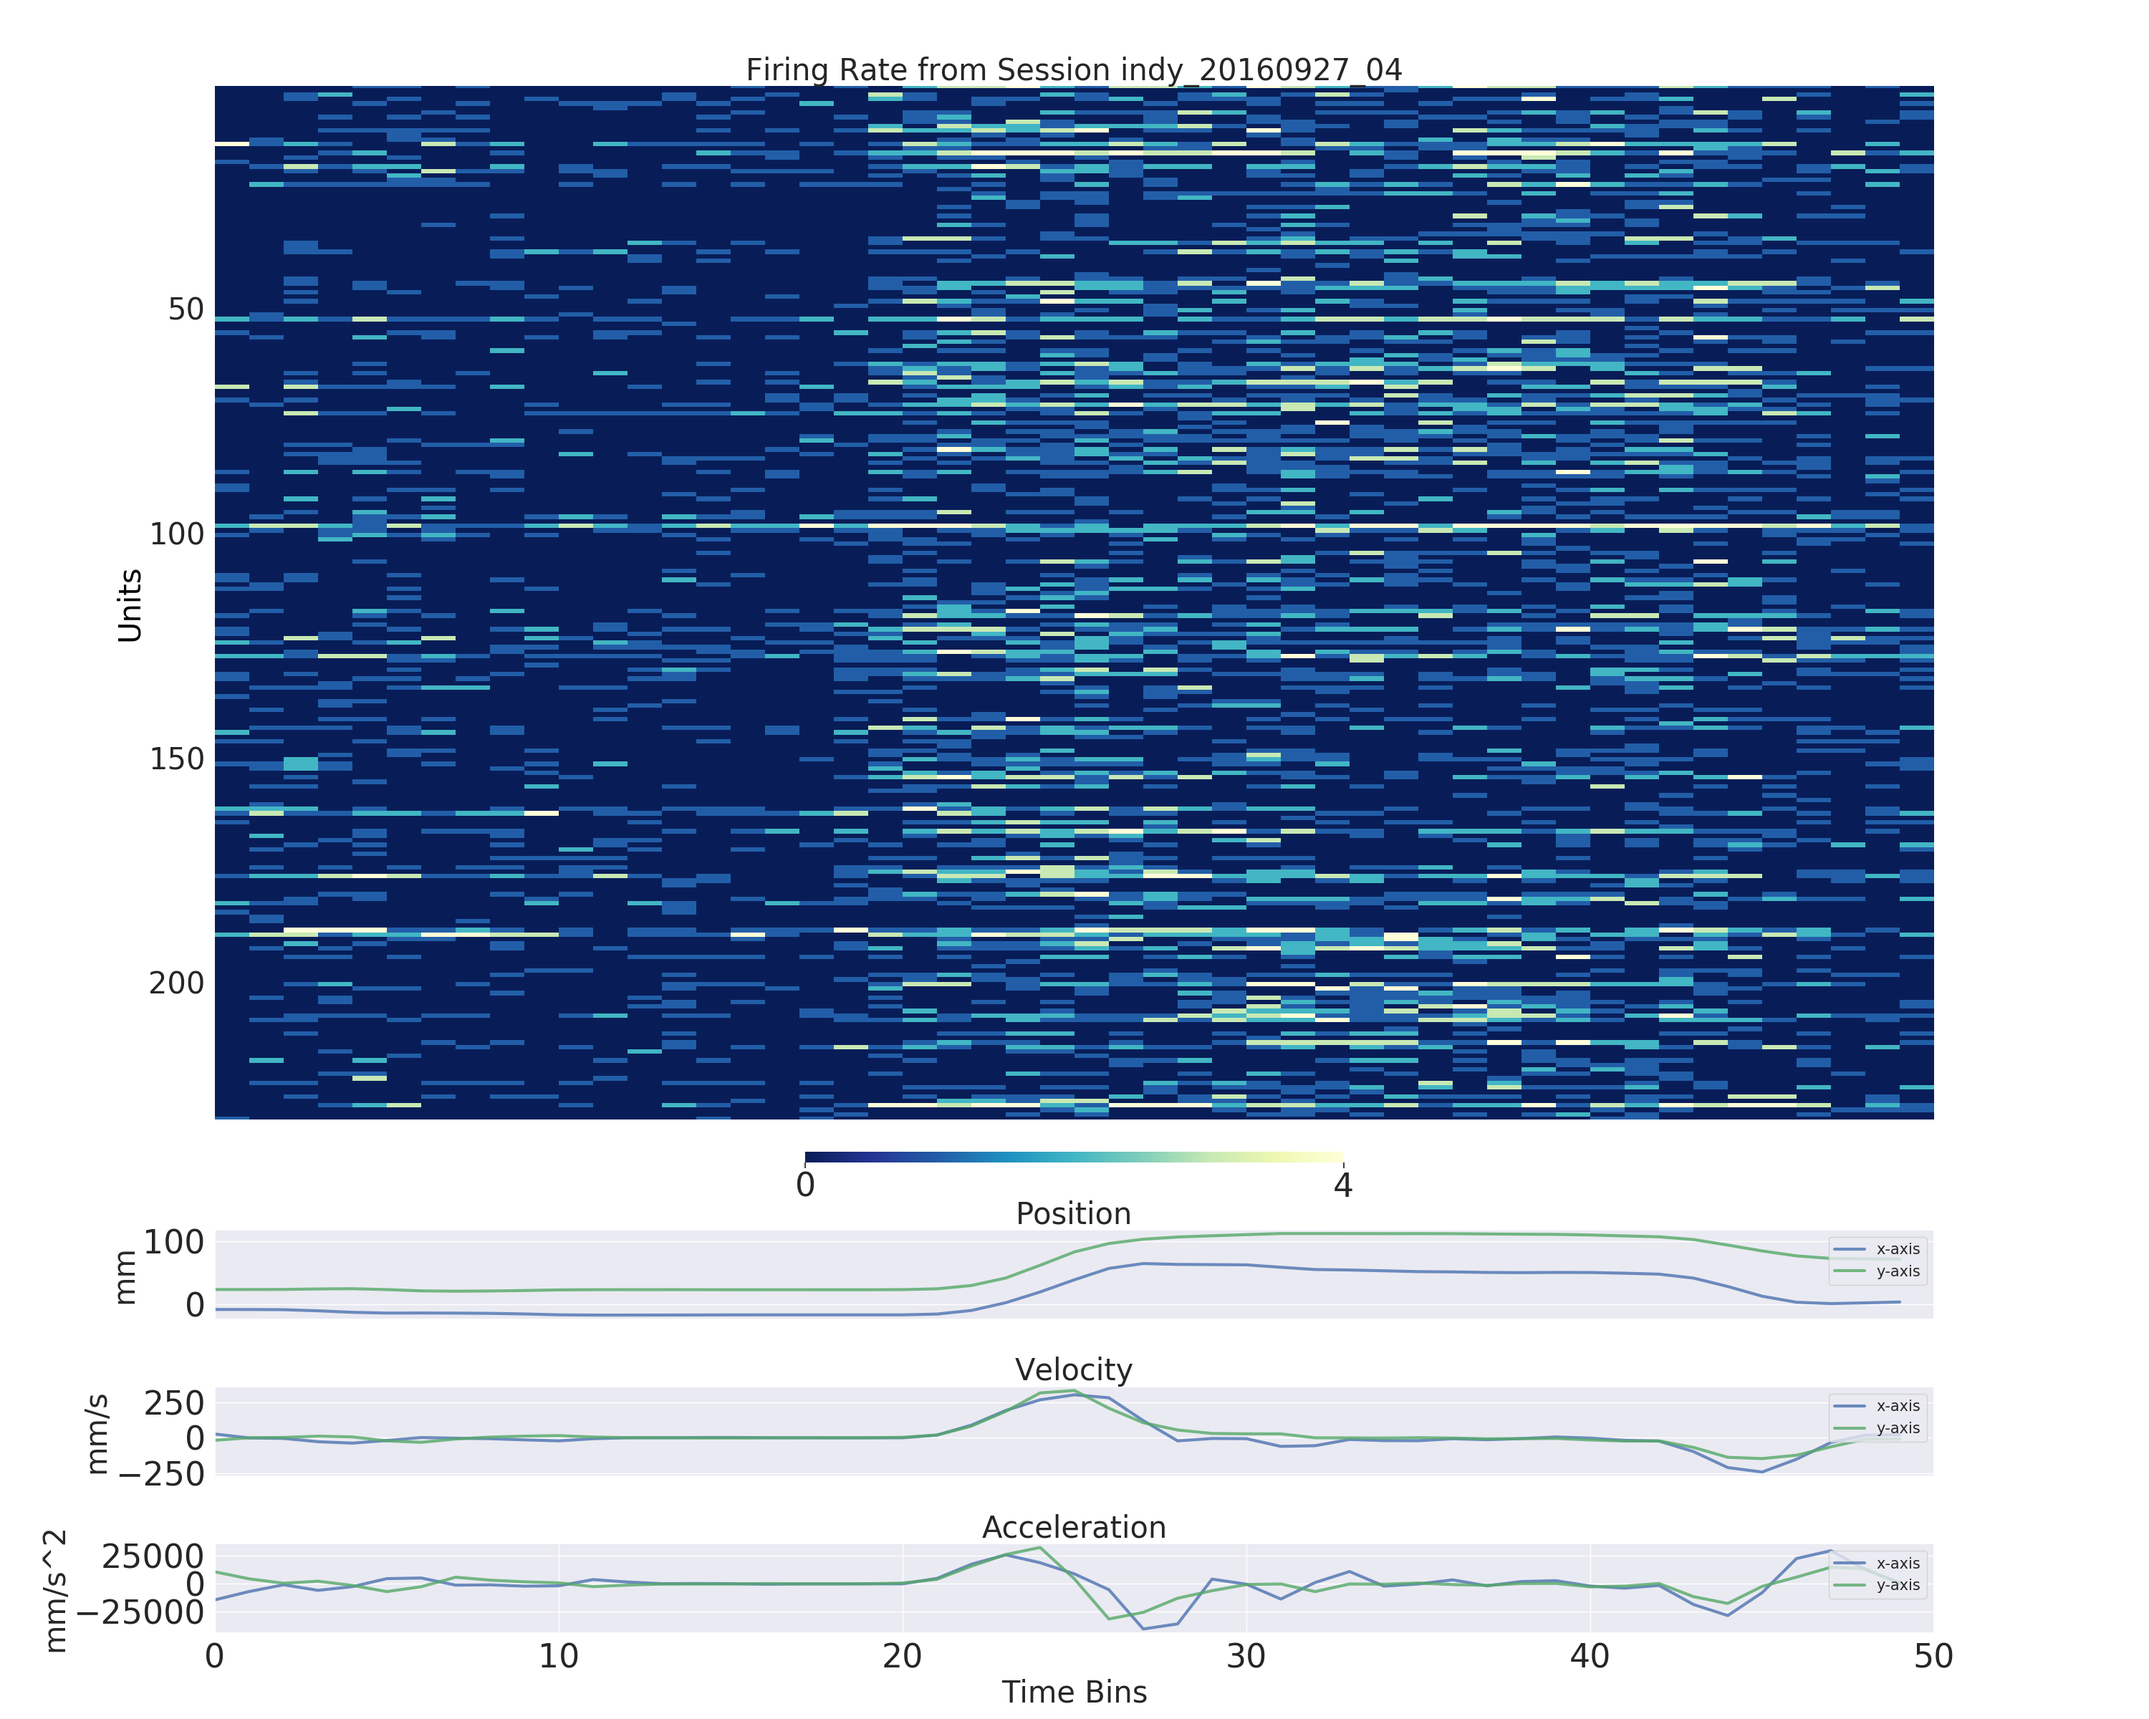
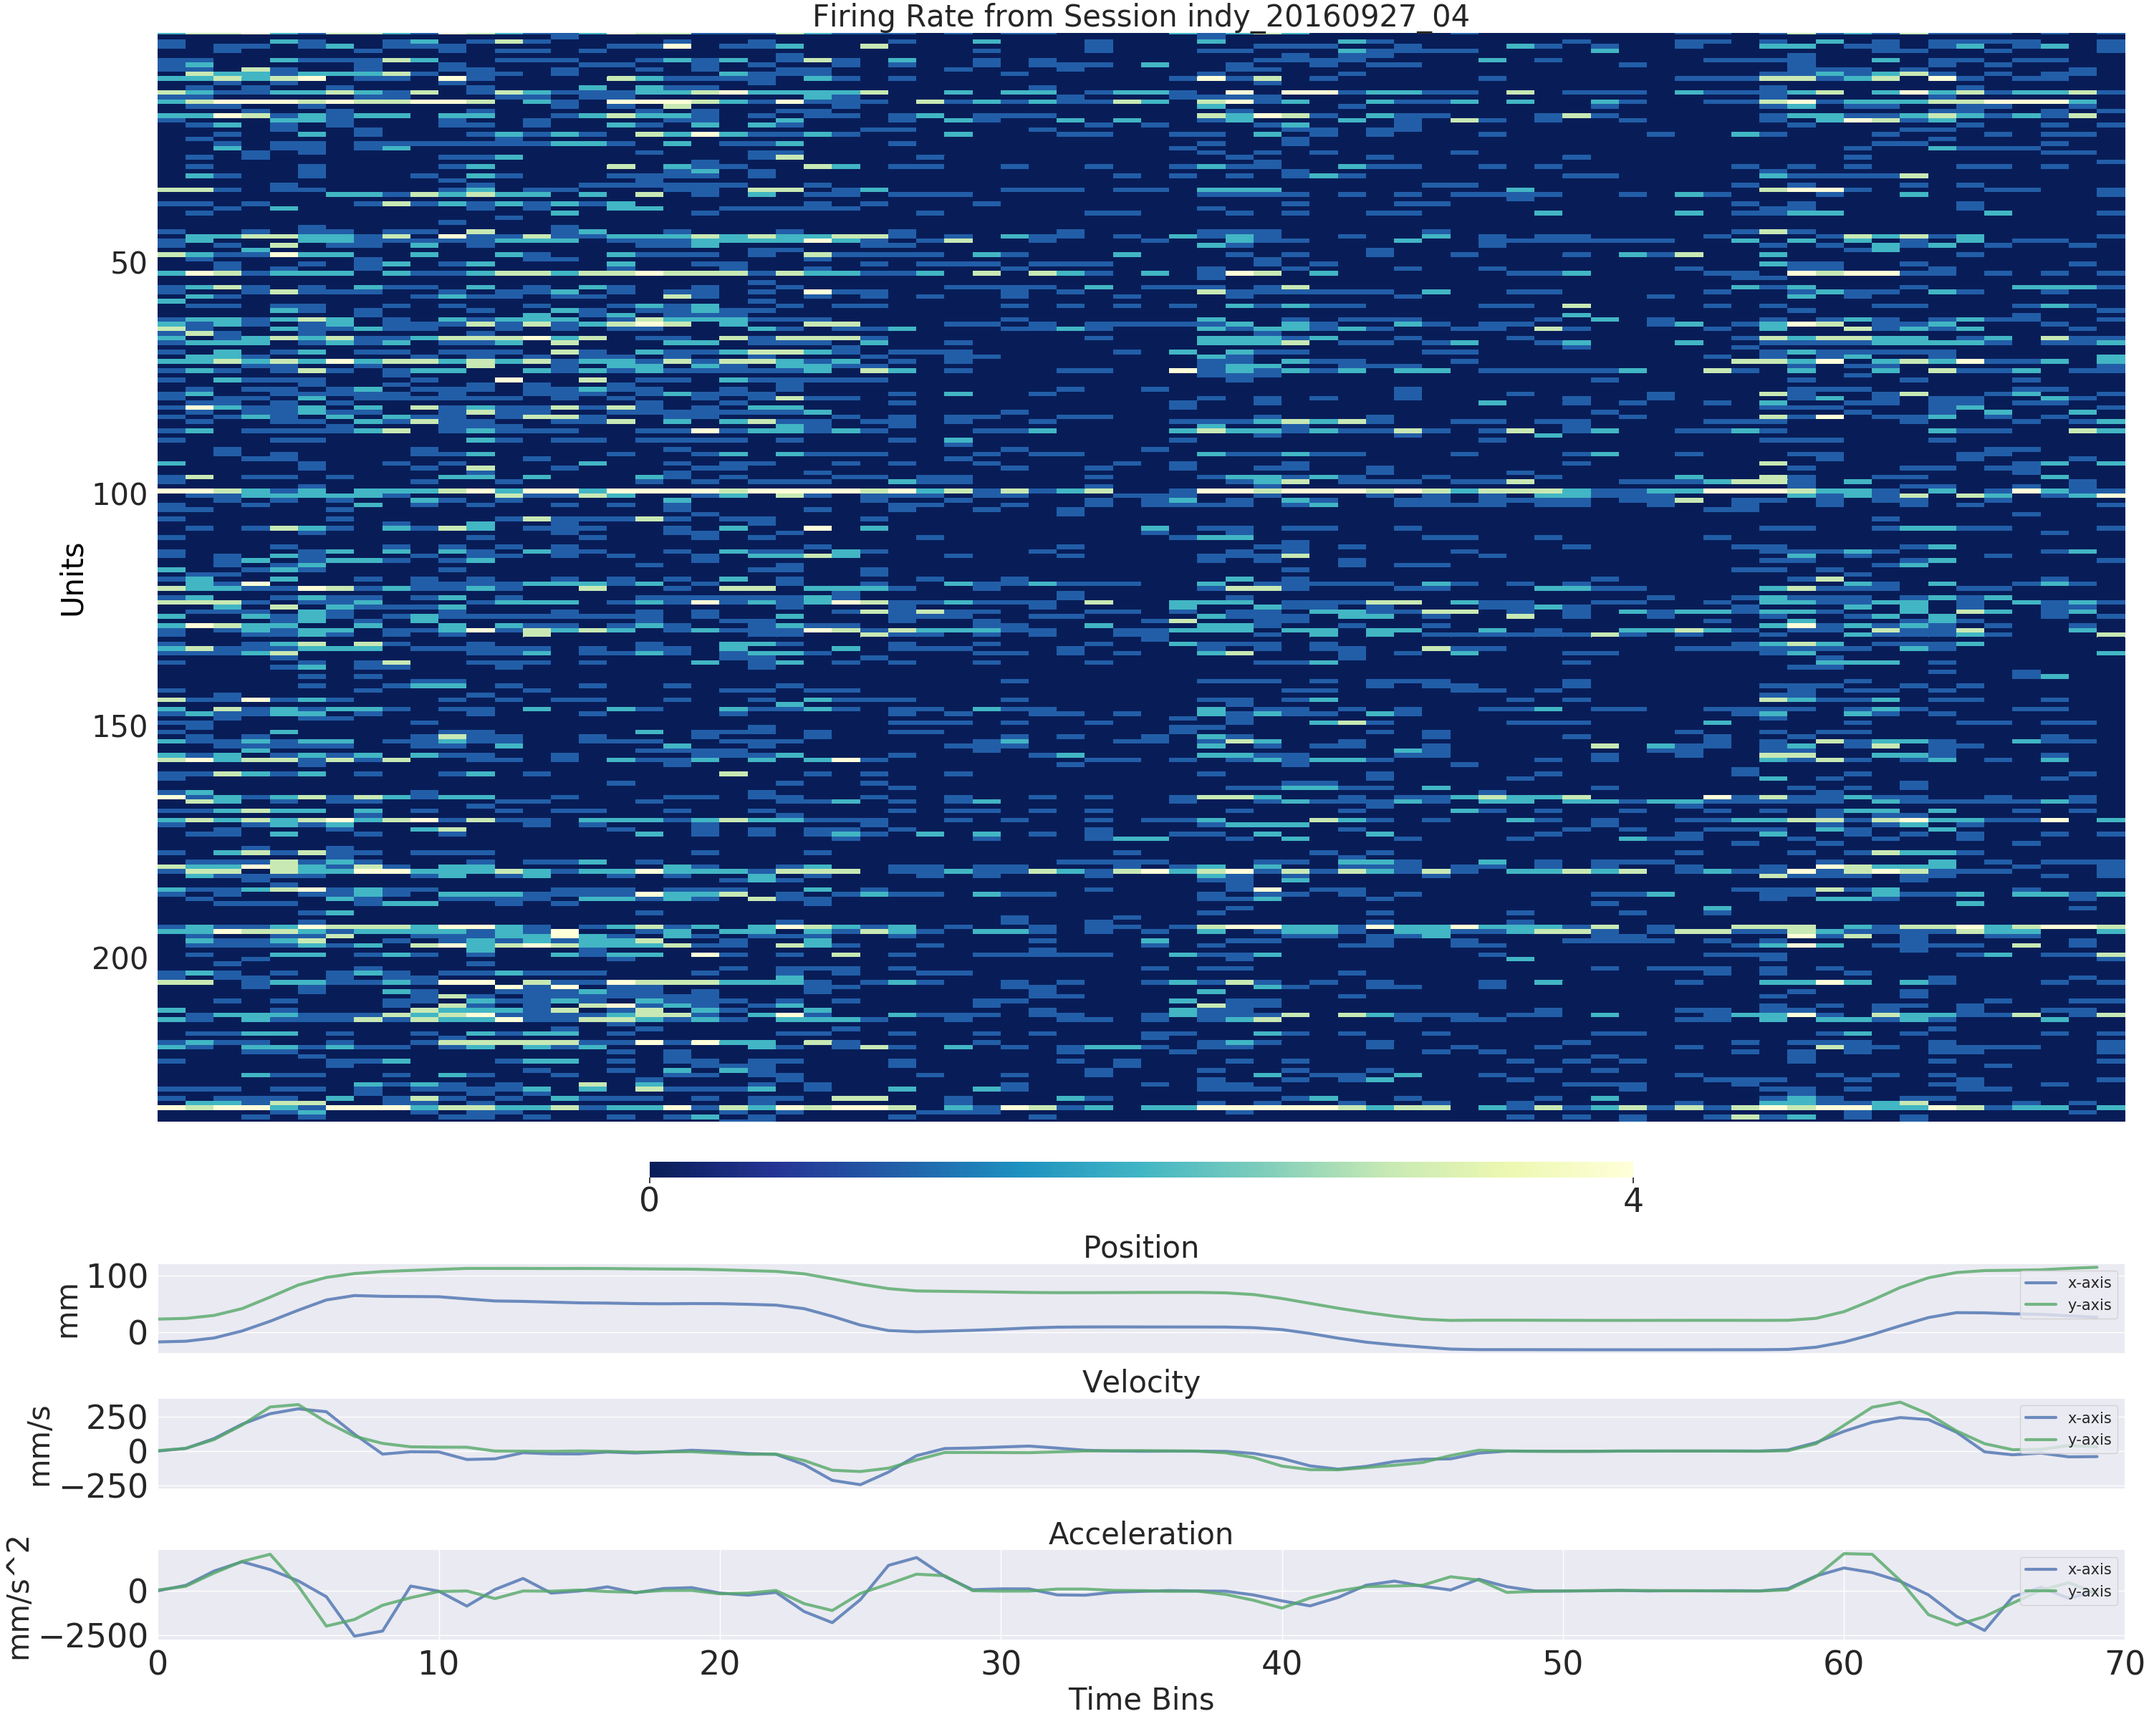
raster plot

diff --git a/Python_code/Pytorch/Plotting_Raster_Plot_and_Firing_Rate_Heatmap.py b/Python_code/Pytorch/Plotting_Raster_Plot_and_Firing_Rate_Heatmap.py
@@ -1,0 +1,167 @@
+# -*- coding: utf-8 -*-
+import numpy as np
+import h5py
+import os
+import numpy
+import matplotlib.pyplot as plt 
+
+path=r'''../../Figures/Spike_Train_Plots/'''
+if not os.path.exists(path):
+    os.mkdir(path)
+
+
+def histc(X, bins):
+    map_to_bins = np.digitize(X,bins)
+    r = np.zeros(bins.shape)
+    for i in map_to_bins:
+        r[i-1] += 1
+    return r
+
+session_name='indy_20160407_02'
+with h5py.File('../../Dataset/Sorted_Spike_Dataset/'+session_name+'.mat', 'r') as mat_file:
+    # <KeysViewHDF5 ['#refs#', 'chan_names', 'cursor_pos', 'finger_pos', 'spikes', 't', 'target_pos', 'wf']>
+    print('print all keys: ',end='')
+    print( list( mat_file.keys() ) )
+
+    # ['#refs#', 'chan_names', 'cursor_pos', 'finger_pos', 'spikes', 't', 'target_pos', 'wf']
+    #chan_names=list (mat_file['chan_names'] )
+    chan_names = mat_file['chan_names'] 
+    spikes = mat_file['spikes']
+
+    print('chan_names shape:  ',end='')
+    print(chan_names.shape)
+
+    print('spikes shape:  ',end='')
+    print(spikes.shape)
+    unit_number = spikes.shape[0]
+    channel_number = spikes.shape[1]
+
+    print('chan_names dtype:  ',end='')
+    print(chan_names.dtype)
+
+    print('spikes dtype: ',end='')
+    print(spikes.dtype)
+
+    print('len of chan_names:  ',end='')
+    print( len(chan_names) ) # print 1
+
+    print('type of chan_names[0]:  ',end='' )
+    print( type( chan_names[0] ) )
+
+    print('type of spikes[0]:  ',end='' )
+    print( type( spikes[0] ) )
+
+    print('type of mat_file[ (chan_names[0][0]) ]:  ',end='')
+    print( type(mat_file[ (chan_names[0][0]) ]))
+
+    data_chan_names_1 = mat_file[ (chan_names[0][0]) ][()]
+    print('shape of data_chan_names_1: ',end='')
+    print(data_chan_names_1.shape)
+    for i in range(data_chan_names_1.shape[0]):
+        print( chr(data_chan_names_1[i][0] ))
+
+    print('shape of mat_file[ ( spikes[0][0] ) ]: ',end='')
+    print(mat_file[(spikes[0][0])].shape )
+
+    spikes_data_1_1=mat_file[ ( spikes[0][0] ) ][()]
+    print('shape of spikes_data_1_1: ',end='')
+    print( spikes_data_1_1.shape )
+    
+    print( 'value of spikes_data_1_1[0][1000]: ',end='')
+    print( spikes_data_1_1[0][1000] )
+
+    # Making spike counts matrix
+    # Handling M1 array data
+    firing_rate_cell=[[]]
+    m1_raster=[[]]
+    s1_raster=[[]]
+
+    time_stamp=mat_file['t'] # or time_stamp=mat_file.get('t') => time_stamp=np.array(time_stamp)
+    sampling_rate=16 # because 64ms
+    time_stamp_64ms=time_stamp[0][::sampling_rate]
+    print('lenght of time_stamp_64ms: ', len(time_stamp_64ms))
+    time_stamp_64ms=np.asarray(time_stamp_64ms)
+    time_stamp_64ms=time_stamp_64ms.flatten()
+
+    for channel_index in range(96):
+        for unit_index in range( spikes.shape[0] ):
+            temp_spike_cell=[]
+            temp_spike_cell=mat_file[( spikes[unit_index][channel_index] )][()]
+            temp_spike_cell=np.asarray(temp_spike_cell)
+            temp_spike_cell=temp_spike_cell.flatten()
+
+            m1_raster.append([])
+            if temp_spike_cell.shape[0] != 2:
+                for i in range ( len(temp_spike_cell) ):
+                    m1_raster[-1].append( temp_spike_cell[i] )
+                yee=histc(temp_spike_cell, time_stamp_64ms)
+                #print('shape of yee:  ',yee.shape)
+                firing_rate_cell.append(yee[:-1])
+                #print('yee: ',yee)
+
+            else:
+                r = np.zeros( len(time_stamp_64ms)-1 )
+                firing_rate_cell.append(r)
+                # m1_raster[-1].append(0)
+
+            firing_rate_cell.append([])
+
+    if channel_number==192:
+        for channel_index in range(96,96*2):
+            for unit_index in range( spikes.shape[0] ):
+                temp_spike_cell=[]
+                temp_spike_cell=mat_file[( spikes[unit_index][channel_index] )][()]
+                temp_spike_cell=np.asarray(temp_spike_cell)
+                temp_spike_cell=temp_spike_cell.flatten()
+
+                s1_raster.append([])
+                if temp_spike_cell.shape[0] != 2:
+                    for i in range ( len(temp_spike_cell) ):
+                        s1_raster[-1].append( temp_spike_cell[i] )
+                    yee=histc(temp_spike_cell, time_stamp_64ms)
+                    #print('shape of yee:  ',yee.shape)
+                    firing_rate_cell.append(yee[:-1])
+                    #print('yee: ',yee)
+
+                else:
+                    r = np.zeros( len(time_stamp_64ms)-1 )
+                    firing_rate_cell.append(r)
+                    # s1_raster[-1].append(0)
+
+                firing_rate_cell.append([])
+
+
+firing_rate_final=[] # not[[]]
+for row_index in range( len( firing_rate_cell) ):   
+    if len(firing_rate_cell[row_index]):
+        firing_rate_final.append( firing_rate_cell[row_index] )
+
+remove_index=[]
+for i in range( len(m1_raster) ):
+    # print(len(m1_raster[i]))
+    if len(m1_raster[i]) <= 1:
+        remove_index.append(i)
+        # print('hi')
+
+for i in range(len(remove_index)):
+    m1_raster.pop(i)
+    
+for i in range( len(m1_raster) ):
+    print(len(m1_raster[i]))
+
+# remove_index_s1=[]
+# for i in range( len(s1_raster) ):
+    # if len(s1_raster[i]) <= 1:
+        # remove_index_s1.append(i)
+# for i in range(len(remove_index_s1)):
+    # s1_raster.pop(i)
+
+my_plot_width = 16
+my_plot_height = 9
+f ,ax = plt.subplots(2,1, gridspec_kw={'height_ratios': [1, 1],  "hspace":0.2 ,"left":0.1, "right":0.9, "top":0.95, "bottom":0.05}, constrained_layout=True , figsize=(my_plot_width, my_plot_height*1.2))
+ax[0].eventplot(m1_raster, linelengths=0.3)
+ax[0].set_xlim([ 100,200 ])
+ax[1].eventplot(s1_raster, linelengths=0.3)
+ax[1].set_xlim([ 100,200 ])
+# plt.show()
+plt.savefig('yee.png')

diff --git a/Python_code/Pytorch/Plotting_Firing_Rate_Heatmap.py b/Python_code/Pytorch/Plotting_Firing_Rate_Heatmap.py
@@ -151,15 +151,15 @@ print('\n')
 
 # Cross Session Data Concatenation
 [X_for_training, X_for_prediction,
-x_position_label_training, x_position_label_testing, y_position_label_training, y_position_label_testing, z_position_label_training, z_position_label_testing,
-x_velocity_label_training, x_velocity_label_testing, y_velocity_label_training, y_velocity_label_testing, z_velocity_label_training, z_velocity_label_testing,
-x_acceleration_label_training, x_acceleration_label_testing, y_acceleration_label_training, y_acceleration_label_testing, z_acceleration_label_training, z_acceleration_label_testing,
+x_position_label_training, x_position_label_testing, y_position_label_training, y_position_label_testing, 
+x_velocity_label_training, x_velocity_label_testing, y_velocity_label_training, y_velocity_label_testing, 
+x_acceleration_label_training, x_acceleration_label_testing, y_acceleration_label_training, y_acceleration_label_testing,
 x_position_target_training, x_position_target_testing, y_position_target_training, y_position_target_testing] = mat_file_processing.cross_session_data_concatenation(
 session_name, feature_numbers_of_firing_rate, X, testing_data_index, X_for_training, X_for_prediction,
-x_position_label, y_position_label, z_position_label, x_velocity_label, y_velocity_label, z_velocity_label, x_acceleration_label, y_acceleration_label, z_acceleration_label, x_position_target, y_position_target,
-x_position_label_training, x_position_label_testing, y_position_label_training, y_position_label_testing, z_position_label_training, z_position_label_testing,
-x_velocity_label_training, x_velocity_label_testing, y_velocity_label_training, y_velocity_label_testing, z_velocity_label_training, z_velocity_label_testing,
-x_acceleration_label_training, x_acceleration_label_testing, y_acceleration_label_training, y_acceleration_label_testing, z_acceleration_label_training, z_acceleration_label_testing,
+x_position_label, y_position_label,  x_velocity_label, y_velocity_label,  x_acceleration_label, y_acceleration_label,  x_position_target, y_position_target,
+x_position_label_training, x_position_label_testing, y_position_label_training, y_position_label_testing, 
+x_velocity_label_training, x_velocity_label_testing, y_velocity_label_training, y_velocity_label_testing, 
+x_acceleration_label_training, x_acceleration_label_testing, y_acceleration_label_training, y_acceleration_label_testing,
 x_position_target_training, x_position_target_testing, y_position_target_training, y_position_target_testing)
 print('shape of X_for_training before', X_for_training.shape)
 
@@ -308,7 +308,7 @@ testing_y_6 = testing_y_6.float()
 shutil.rmtree(Firing_Rate_Visualization)
 
 # Start plotting
-reduce_time_bin = 50
+reduce_time_bin = 70
 my_fontsize = 30
 my_plot_width = 30
 my_plot_height = 20
@@ -373,7 +373,7 @@ plt.close()
 plt.title( 'Session ' + session_name + ' Firing Rate', fontsize=30, color="black")
 sns.set(font_scale=3)
 
-f ,ax = plt.subplots(4,1, gridspec_kw={'height_ratios': [12, 1, 1, 1],  "hspace":0.2 ,"left":0.1, "right":0.9, "top":0.95, "bottom":0.05}, figsize=(my_plot_width, my_plot_height*1.2))
+f ,ax = plt.subplots(4,1, gridspec_kw={'height_ratios': [12, 1, 1, 1],  "hspace":0.2 ,"left":0.1, "right":0.9, "top":0.95, "bottom":0.05}, constrained_layout=True , figsize=(my_plot_width, my_plot_height*1.2))
 
 cbar_kws={"orientation": "horizontal", "shrink": 0.5, "aspect":50,"use_gridspec":"True", "fraction":0.01 , "pad":0.03, 'ticks' : [ torch.min(data), 4 ]}
 sns.heatmap( data=data, vmax=4 ,xticklabels=False, yticklabels=True, cbar_kws=cbar_kws, cmap='YlGnBu_r', ax=ax[0]) # important, not ax[0] = sns.heatmap(...)
